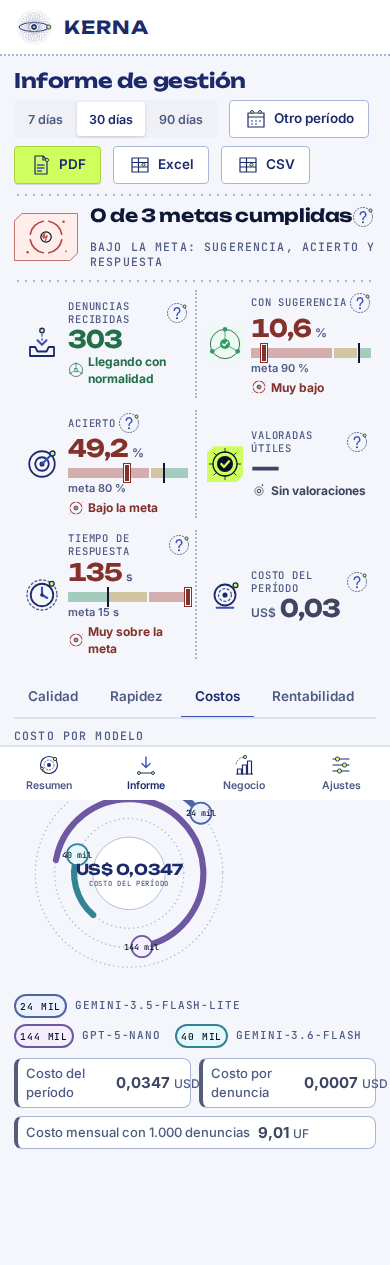
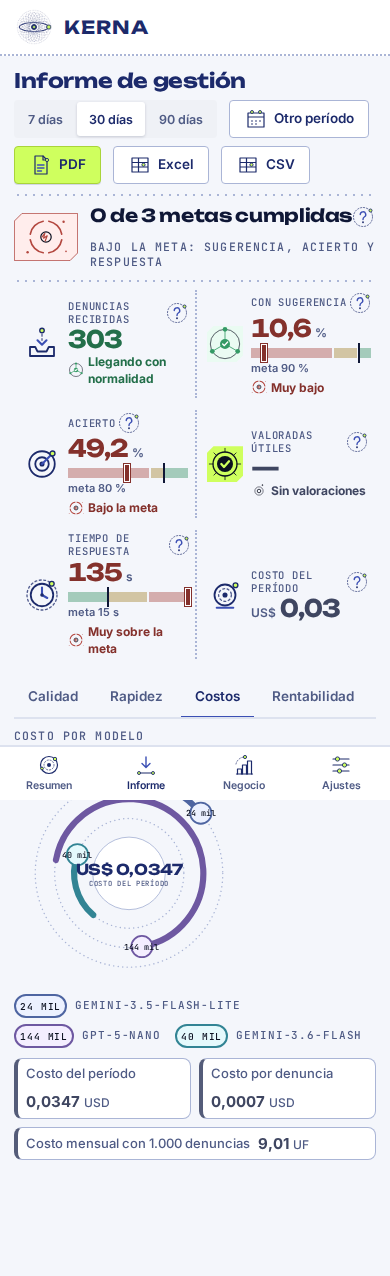
docs(pendientes): relevo 4 del rediseño Núcleo (hecho y falta); capturas prod8-

diff --git a/pendientes/kerna-pendientes.md b/pendientes/kerna-pendientes.md
@@ -403,9 +403,20 @@ Desplegado con `desplegar.sh --ref HEAD` (último commit: "paneles orbitales de 
 - Punto 6 (rendimiento, producción, sin caché / con caché): portada TTFB 31-73 ms / 12-15 ms, 322 KB / 9 KB, 15 recursos, CPU en reposo 0 %; vistas del panel TTFB 11-29 ms (Ajustes 78-180 ms: lee la tabla), HTML 8-10 KB gzip, Informe 219 KB (echarts diferido), CPU en reposo 0-0,3 %. Cumple TTFB ~0,05 s y ~450 KB. Datos en `kerna/front/diseno-v2/capturas/prod7-extra.json`.
 - Punto 8 (capturas): `kerna/front/diseno-v2/capturas/prod7-*.png` (390 = `-m`, 1366 = `-d`; vistas, 6 pestañas del informe, `prod7-portada-{d,m}.png`, `prod7-reintentar-modal-{d,m}.png`) y `prod7.json`.
 
+### Relevo 2026-11-12 (agente 4): hecho y desplegado (commit 02a7e5688; 104 pruebas del front)
+- Porcentajes: todo porcentaje se ve en % (Acierto 49,2 %, meta 80 %). `informe.para_mostrar` (copia con el recall x100) alimenta Excel y CSV; la pantalla y el PDF convierten en `vistas.py` (`informe`, `informe_ejecutivo`, `_celda`, `_fmt_g`). El dato interno sigue siendo razón (0 a 1). Pruebas: `test_acierto_y_metas_en_porcentaje_en_el_informe`, `test_exportaciones_visibles_en_porcentaje`.
+- Veredicto en una frase ("0 de 3 metas cumplidas") y una línea chica con lo que falta (`informe_v2`, `informe_cuerpo.html`).
+- Puntito suelto: era el mini ícono de estado de KPI sin texto de estado (Costo) y el mini `m-sin-info` (solo un núcleo de 3 px). La macro `kb` ya no pinta el estado si no hay texto y el mini lleva un anillo sólido (`construir_identidad.py`). Sin elementos < 8 px en la portada a 390 y 1366.
+- Diagrama orbital: arcos terminan en ángulos repartidos (`orbital.angulos_satelites`), nombres en leyenda directa al lado (fila en móvil). Pruebas de no cruce de satélites.
+- Ajustes: guilloche centrada tras la ilustración (ya no es una mancha), "Compartir" ajustado (`.as-1`, `kerna.css` ~971), etiquetas "Meta de respuesta" y "Artículos por caso", segmentos sin partirse, textos de los paneles >= 11 px ("15 s · objetivo"; se oculta en <= 599 px).
+- Negocio: sin "+52 % sobre el plan"; cascada con conectores, alto mínimo de 2 px y valor sobre la barra (`vistas.cascada_negocio`, `kerna.js` `cascada`). Misma pila para todas las series (barras centradas).
+- Íconos `n-candado`, `n-oculto`, `n-cita`, `n-escudo`, `n-llave` en portada y banda de protección (mapeo en `graficos.A_NUCLEO`).
+- Cola de reintentos: `.cola-a` alineado a la izquierda.
+- PDF (`exportar.py`, `a_pdf` ~119): página 1 con cabecera, baldosa del veredicto (PNG en `app/estaticos/img/baldosa-*.png`, `herramientas/rasterizar_baldosas.sh`), KPI y modos; una página por pestaña (indicadores, barras y notas); anexo de tablas. Prueba `test_pdf_primera_pagina...`.
+- Capturas `kerna/front/diseno-v2/capturas/prod8-*.png` y `prod8.json` (alturas: Resumen 850 / 1.537, Negocio 948 / 1.371, Ajustes 850 / 1.623, Informe 850 / 1.100-1.265, Datos 1.120 / 1.550; sin desborde horizontal; TTFB 12-30 ms, Ajustes ~135 ms, HTML 9-10 KB, Informe 219 KB).
+
 ### Falta (en este orden)
-1. Punto 7, PDF (`kerna/front/app/exportar.py`, no tocado): cabecera con baldosa del veredicto (PNG pre-renderizadas con Playwright en `app/estaticos/img/`), KPI en la página 1, una página por pestaña con su visual, anexo de tablas.
-2. Sprites en el resto de la UI: íconos de línea Lucide que quedan sin equivalente propio (`lock`, `eye-off`, `quote`, `layout-dashboard` de la portada y la banda de protección); si se quieren 100 % de identidad, agregar `n-candado`, `n-oculto`, `n-cita` en `construir_identidad.py` (dict NUEVOS) y mapear en `graficos.A_NUCLEO`.
-3. Alturas aún sobre meta en 1366 (producción, datos reales): Ajustes 902 px (meta 850), Datos 1.142; en 390: Resumen 1.481, Ajustes ~1.570, Negocio 1.371, Datos 1.585. Informe: una pantalla por pestaña en 1366, 1.150-1.250 px en 390.
-4. Ajustes: la fila "Compartir" deja hueco bajo el título (`.as-s` de 1 sola fila usa `.ap` min-height); considerar altura automática para secciones de 1 fila (`kerna.css`, bloque v6, línea ~914).
-5. Panel de reintentos en Resumen: con "Pedido en curso" el tercer motivo queda aislado a la derecha (`.cola-a{margin-left:auto}`, `kerna.css` ~853); alinearlo a la izquierda.
+1. Alturas en 390 aún altas: Resumen 1.537, Ajustes 1.623, Negocio 1.371, Datos 1.550 (`kerna.css` bloque v6 y media <= 599 px, ~948); Datos 1.120 en 1366.
+2. PDF: las páginas de pestaña usan barras (clase `Barras`, `exportar.py` ~215), no las visuales orbitales; página 1 deja mitad de la hoja vacía (se podría subir la página de Calidad a la 1).
+3. Ajustes en móvil: sección "Compartir" con chips en 3 filas; considerar chips en una fila con scroll.
+4. Informe en móvil: pestañas Incidentes y Datos quedan fuera de vista (scroll horizontal interno de `.tabs2`); considerar 2 filas.
